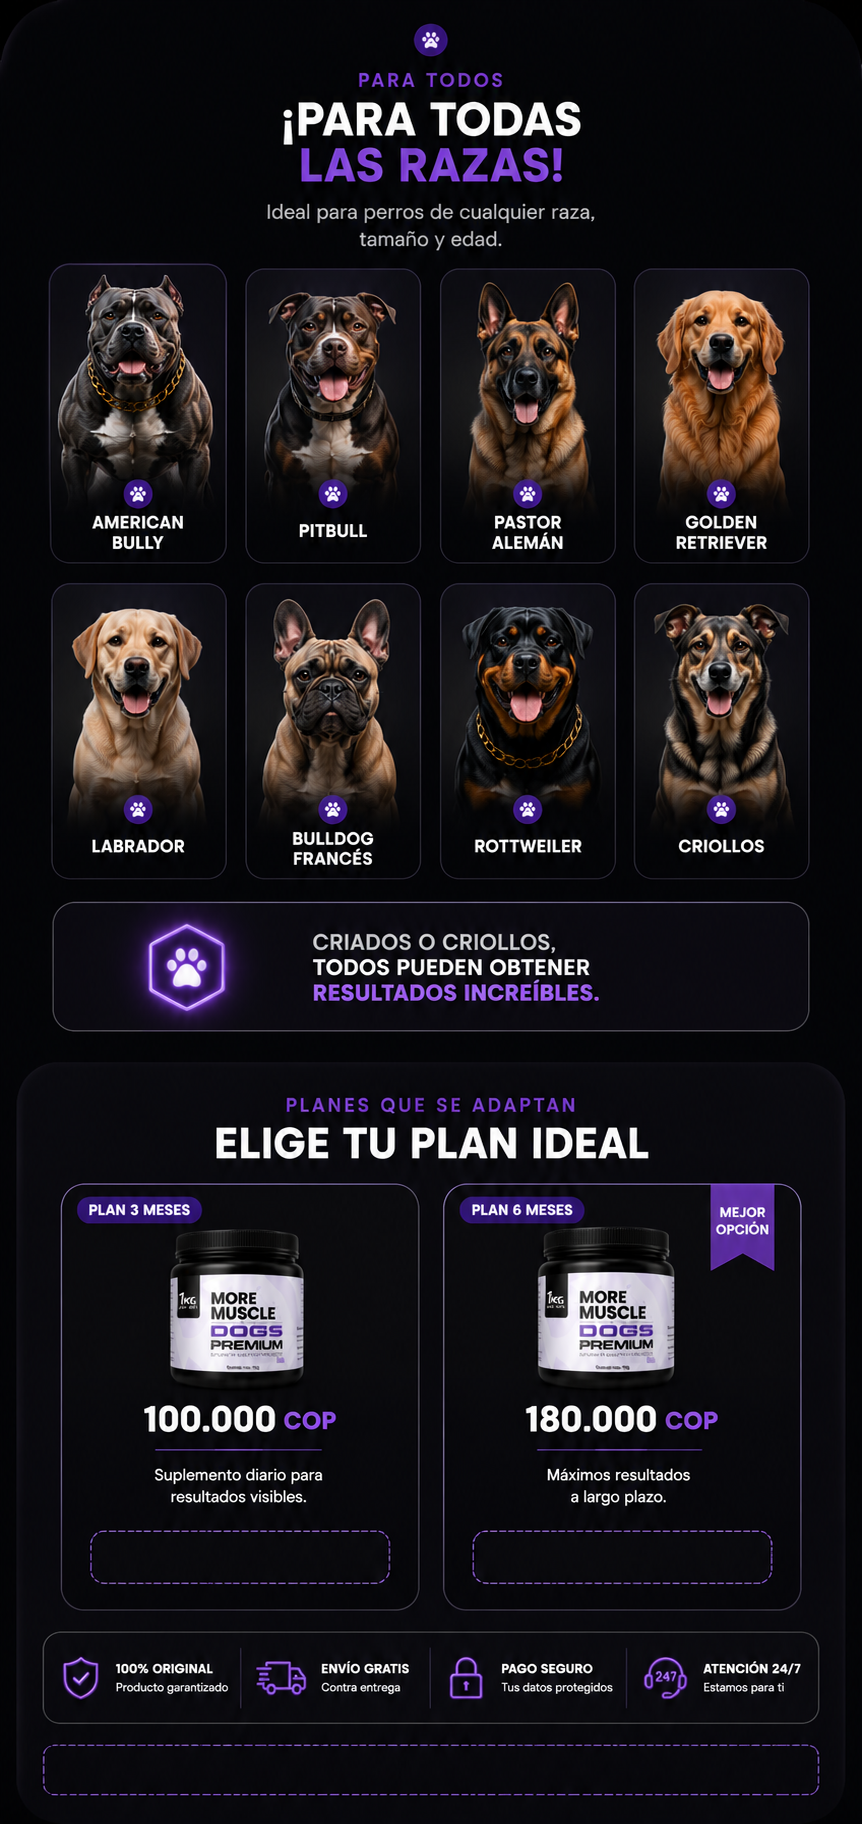
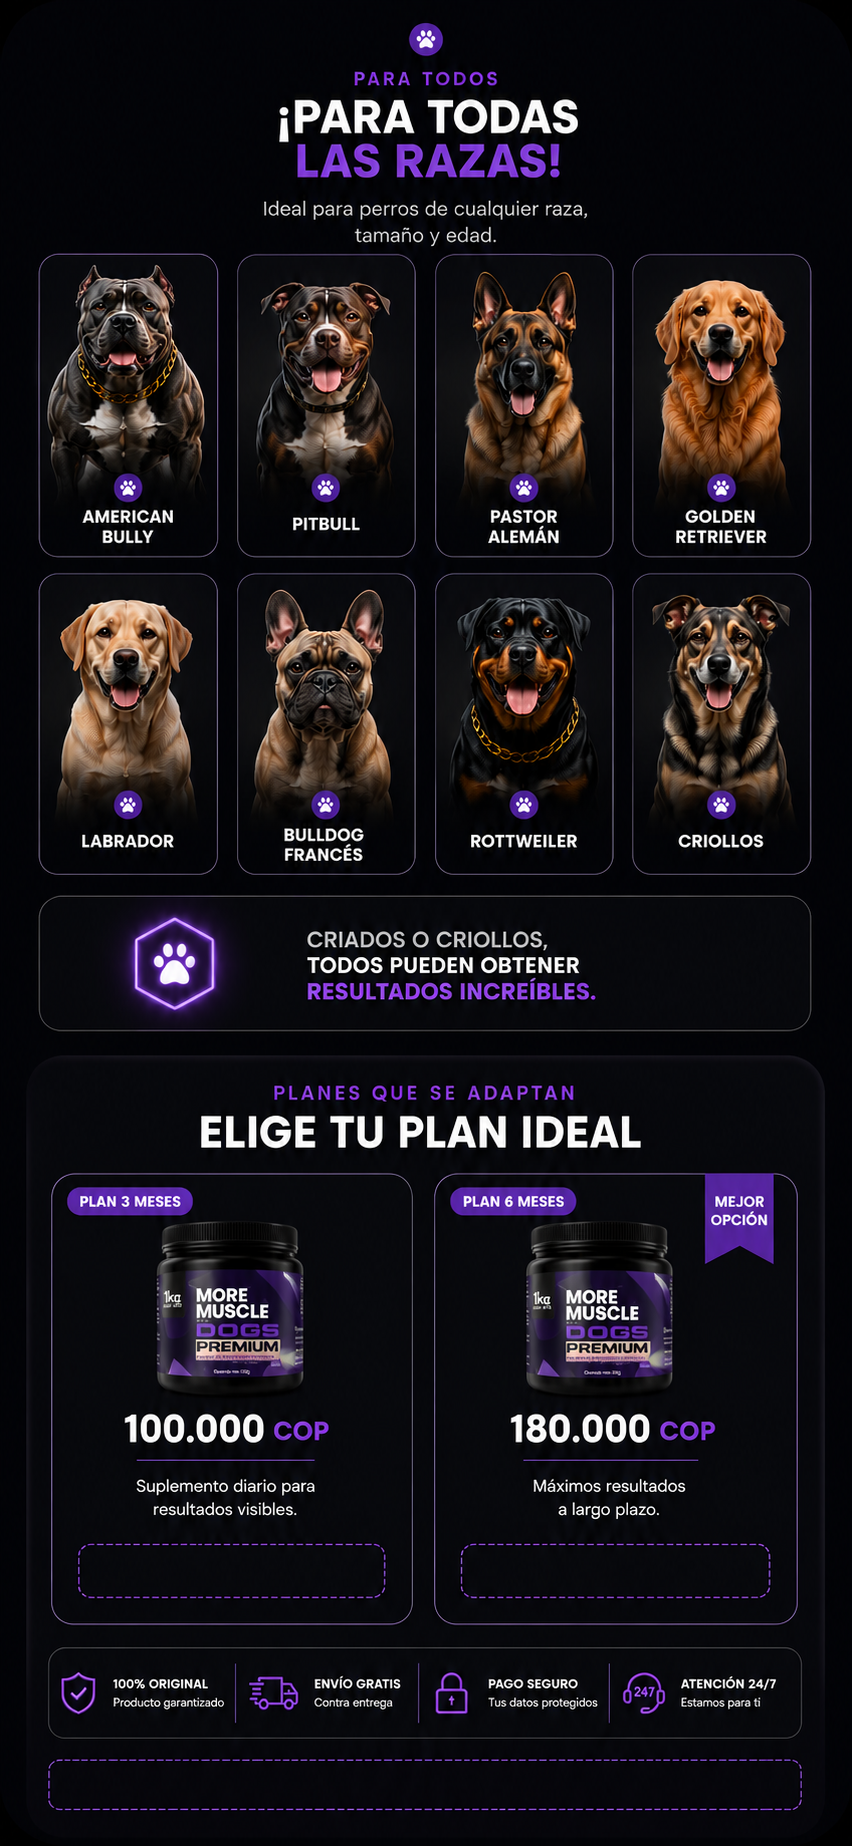
feat(perros): nuevas imágenes hero/planes/CTA + botones realineados
Reemplaza d1 (hero 'Más músculo'), d3 (razas + elige tu plan) y d4
(CTA 'Tu perro merece lo mejor') con los nuevos diseños y reposiciona
los botones de checkout superpuestos para que caigan sobre las cajas.

Changed region(s): [[0.0305, 0.0, 0.946, 0.9688], [0.9155, 0.4688, 0.946, 0.5], [0.061, 0.4688, 0.0915, 0.5]]

diff --git a/components/perros/DogLanding.tsx b/components/perros/DogLanding.tsx
@@ -115,7 +115,7 @@ export function DogLanding() {
         priority
       >
         <BuyButton
-          box={{ top: "61.8%", left: "39.5%", width: "55%", height: "7.6%" }}
+          box={{ top: "62%", left: "39%", width: "54%", height: "6.5%" }}
           onClick={() => buy()}
           fontClass="text-[clamp(13px,3.4vw,19px)]"
         />
@@ -141,24 +141,24 @@ export function DogLanding() {
       <Reveal3D>
         <FlatImage
           src="/assets/dog/d3.png"
-          width={862}
-          height={1824}
+          width={852}
+          height={1846}
           alt="Para todas las razas. Elige tu plan ideal: 3 meses o 6 meses"
         >
           <BuyButton
-            box={{ top: "82.7%", left: "8.8%", width: "36.0%", height: "3.7%" }}
+            box={{ top: "82.5%", left: "7%", width: "37%", height: "4%" }}
             onClick={() => buy(DOG_PRODUCT)}
             label="Comprar"
             fontClass="text-[clamp(12px,3vw,16px)]"
           />
           <BuyButton
-            box={{ top: "82.7%", left: "54.2%", width: "36.0%", height: "3.7%" }}
+            box={{ top: "82.5%", left: "53%", width: "37%", height: "4%" }}
             onClick={() => buy(DOG_PRODUCT_6M)}
             label="Comprar"
             fontClass="text-[clamp(12px,3vw,16px)]"
           />
           <BuyButton
-            box={{ top: "95.3%", left: "5.4%", width: "89.0%", height: "3.7%" }}
+            box={{ top: "93.7%", left: "4%", width: "91%", height: "4.3%" }}
             onClick={() => buy()}
             fontClass="text-[clamp(13px,3.4vw,19px)]"
           />
@@ -190,7 +190,7 @@ export function DogLanding() {
           alt="Tu perro merece lo mejor. Beneficios que se notan — Comprar More Muscle Dogs Premium"
         >
           <BuyButton
-            box={{ top: "82.3%", left: "4.6%", width: "90.6%", height: "6.0%" }}
+            box={{ top: "85.6%", left: "4%", width: "92%", height: "6%" }}
             onClick={() => buy()}
             label="Comprar"
             fontClass="text-[clamp(15px,4.4vw,24px)]"